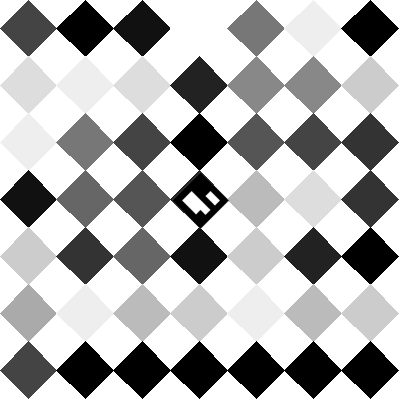
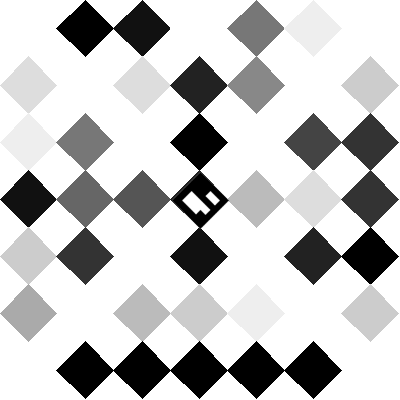
tiles

diff --git a/main.py b/main.py
@@ -123,8 +123,16 @@ def create_square_tile(data_entry, size=400):
     center_y = side // 2
     
     # Create mask for central 2x2 marker area
-    #marker_mask = np.zeros((side, side), dtype=bool)
-    #marker_mask[center_y:center_y, center_x:center_x] = True
+    marker_mask = np.zeros((side, side), dtype=bool)
+    marker_mask[center_y:center_y, center_x:center_x] = True
+
+    # create mask for ALL values in the diagonal central lines
+    for i in range(1, side // 2 + 1):
+        print(f"i: {i}, center_x: {center_x}, center_y: {center_y}, side: {side//2}")
+        marker_mask[center_y + i, center_x + i] = True
+        marker_mask[center_y - i, center_x + i] = True
+        marker_mask[center_y + i, center_x - i] = True
+        marker_mask[center_y - i, center_x - i] = True
     
     # Scale values for better visibility (0-15 to 0-255)
     data_square = data_square * 17
